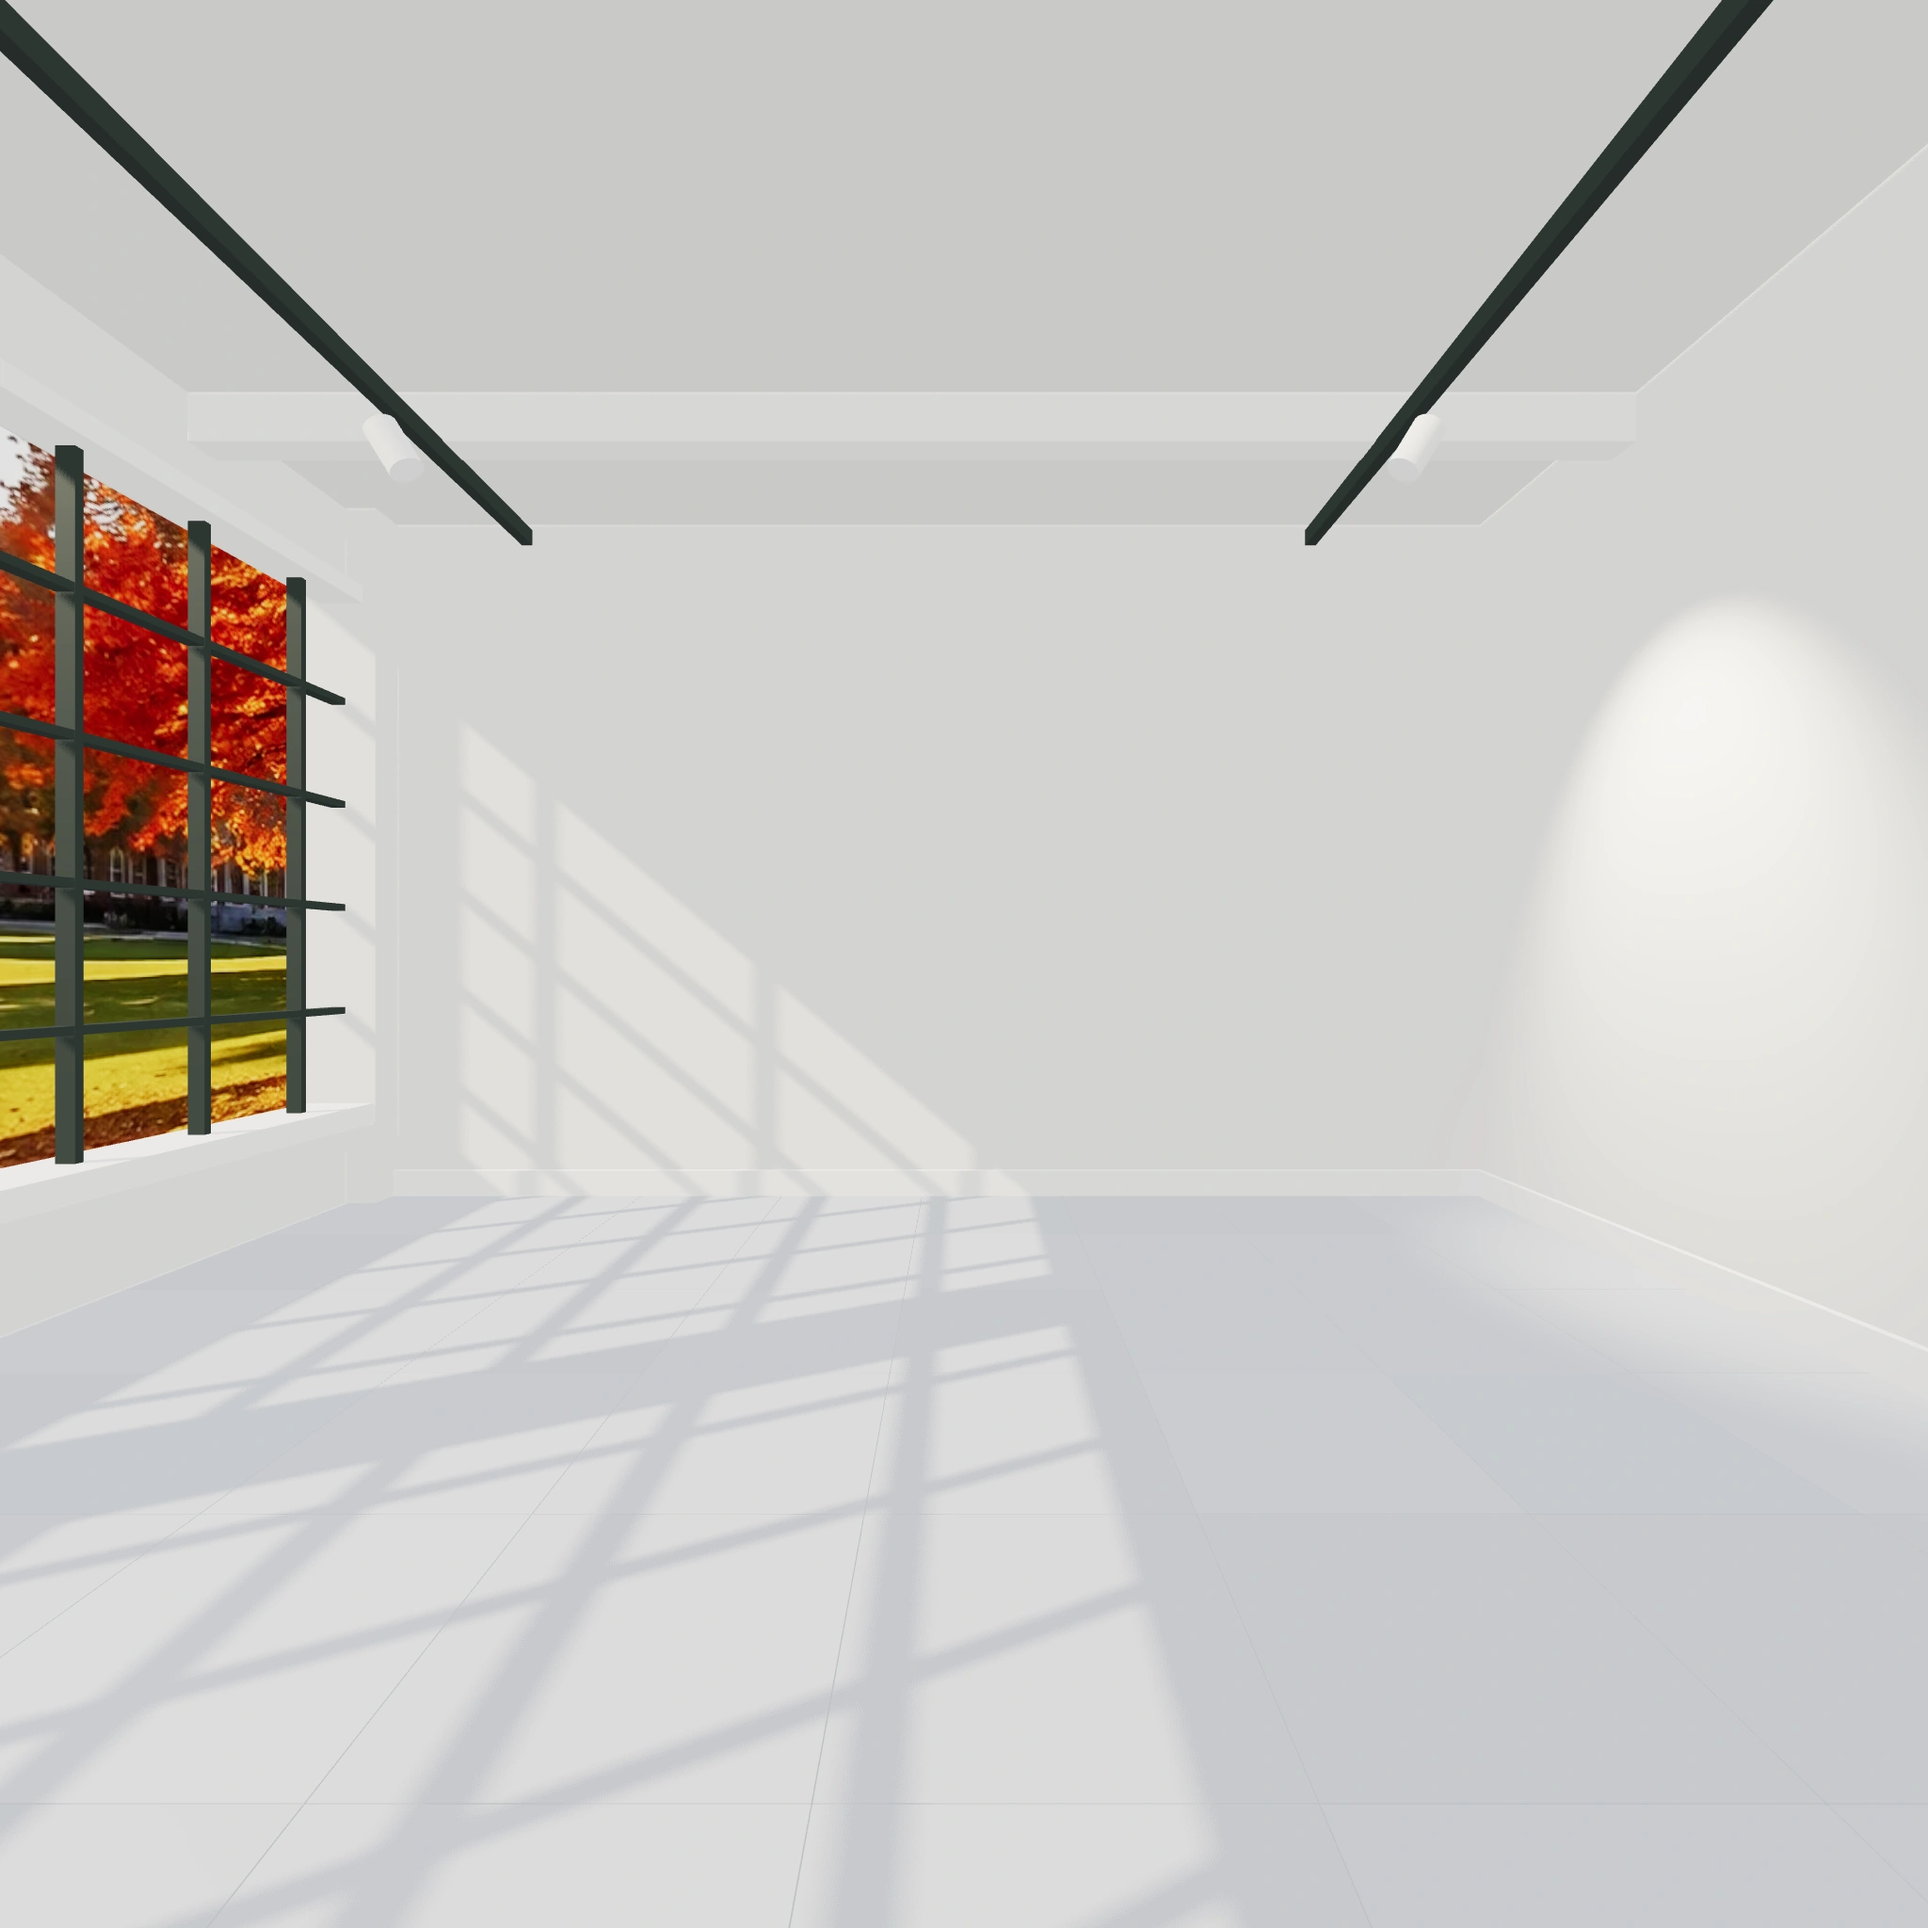
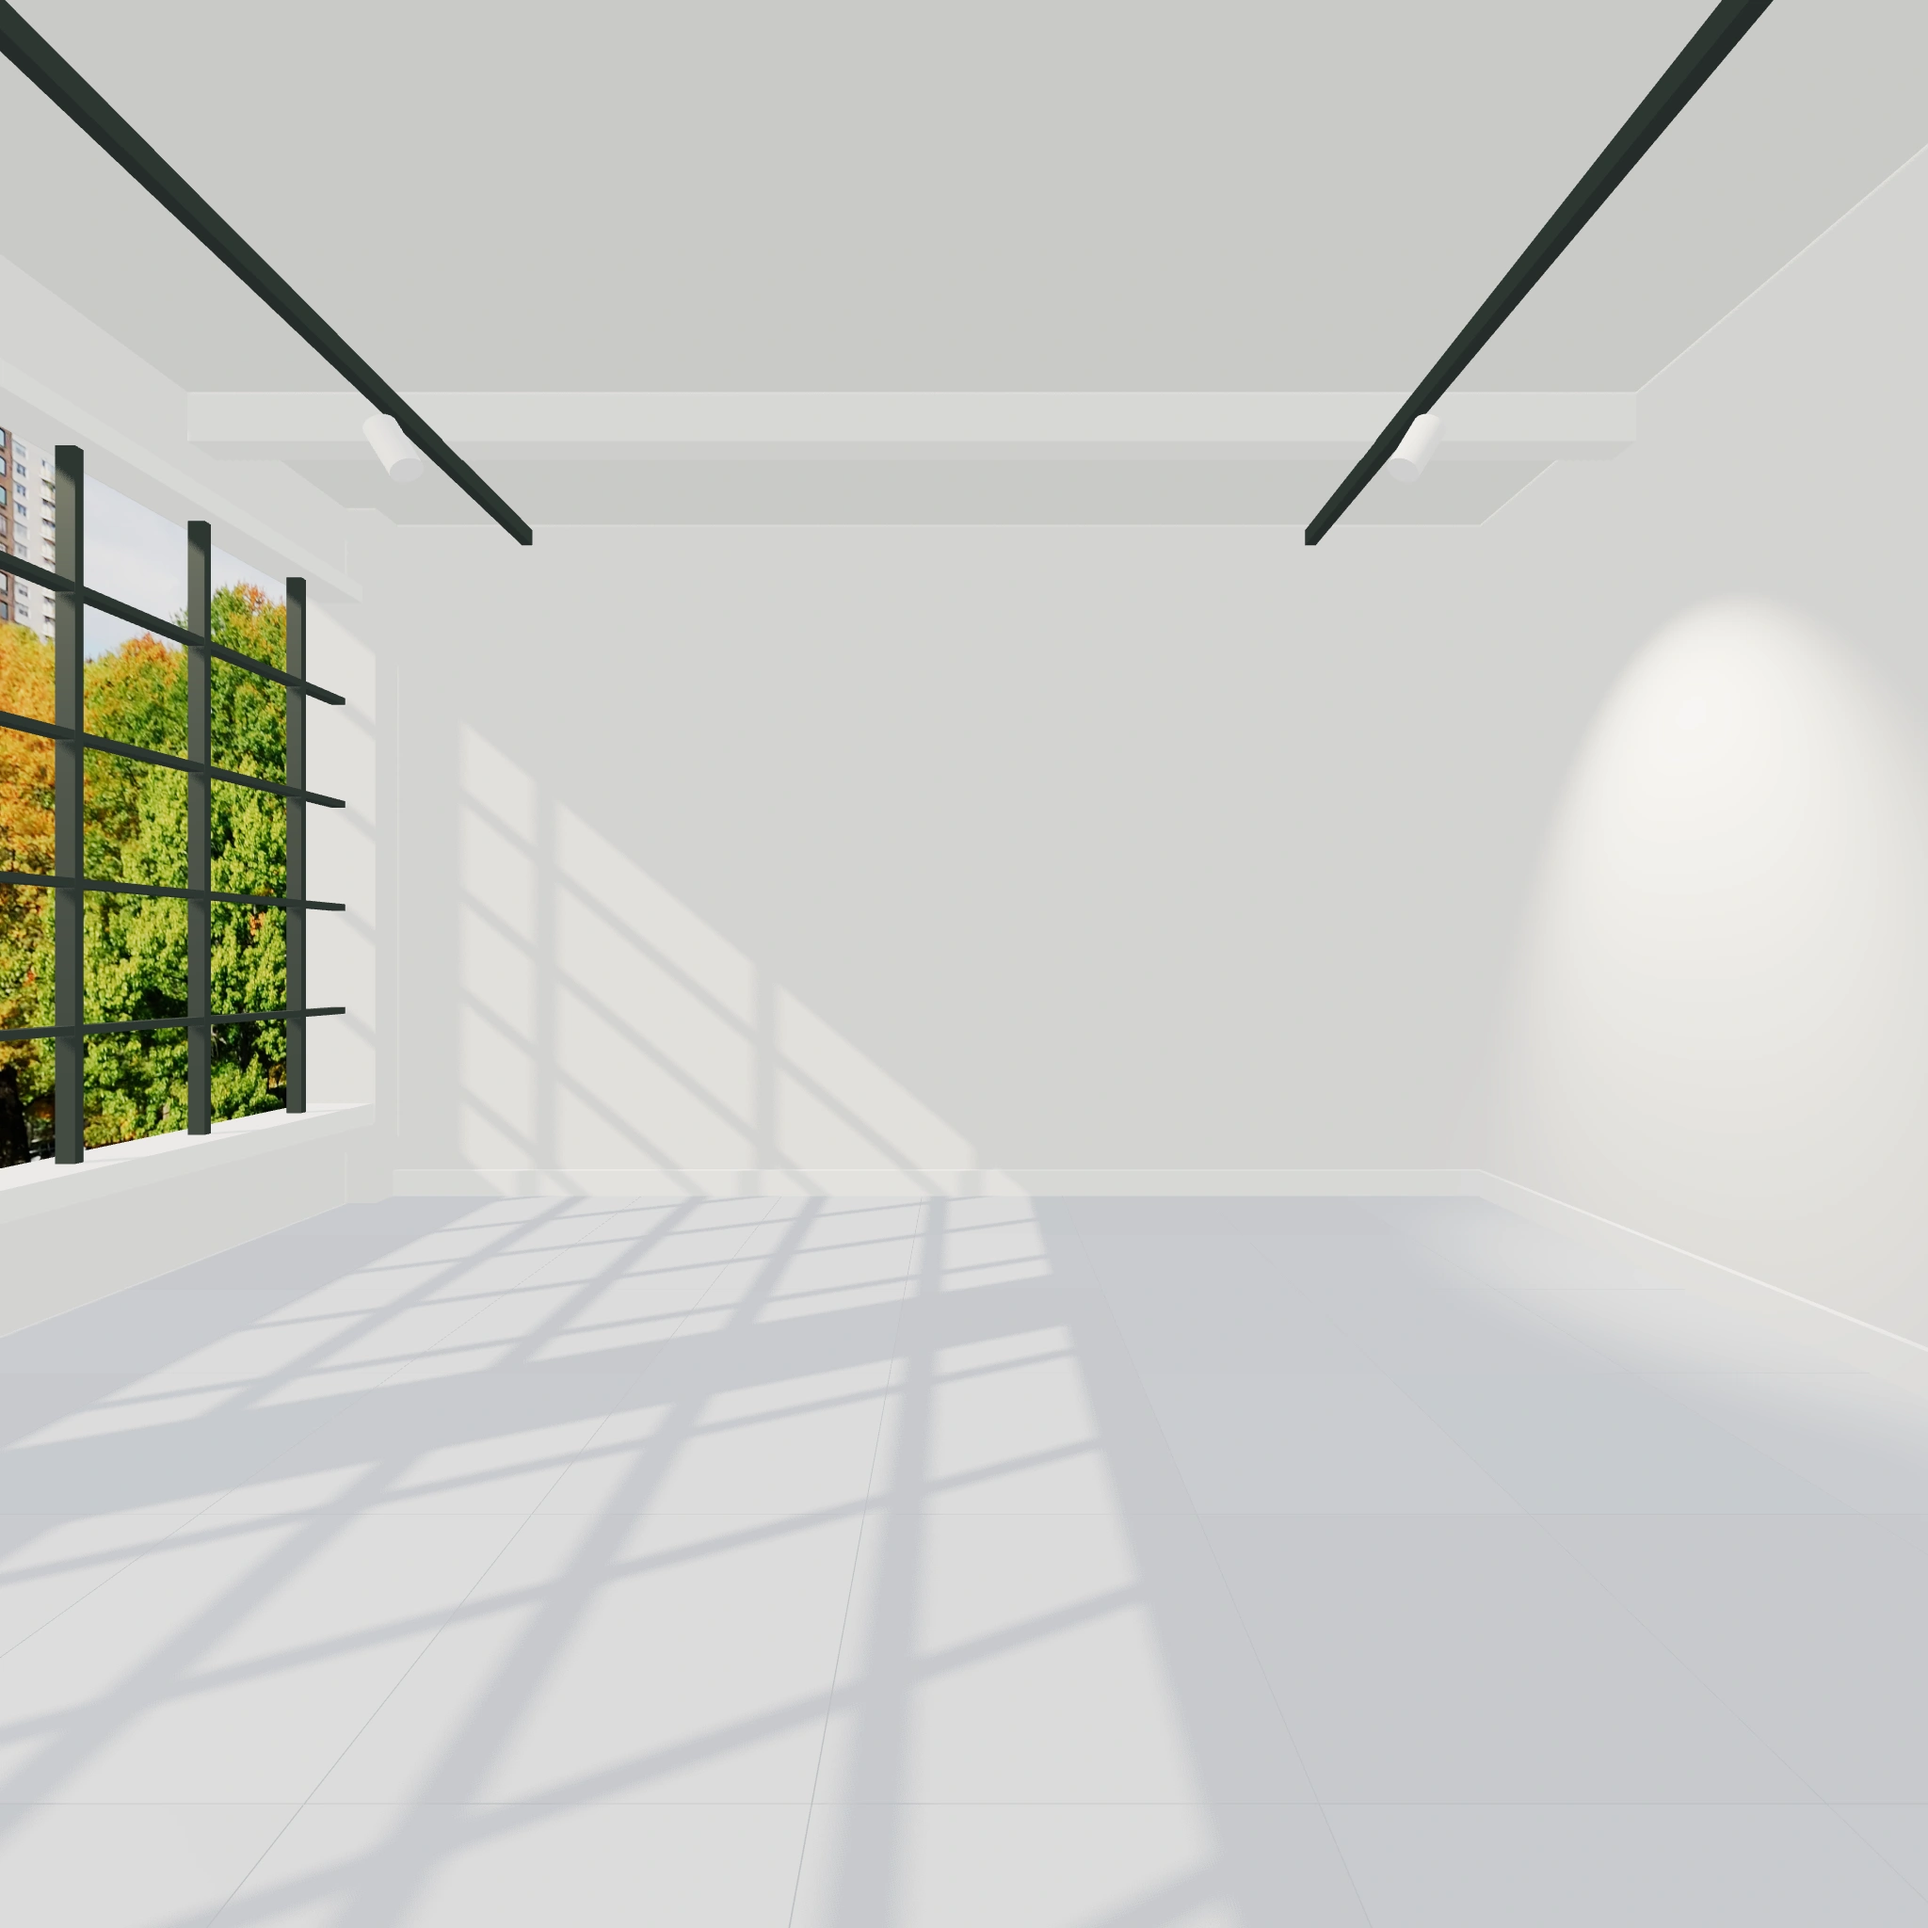
Rebake gallery panoramas with updated exterior view

Changed region(s): [[0.0, 0.2188, 0.1562, 0.625]]

diff --git a/tests/gallery.spec.js b/tests/gallery.spec.js
@@ -4,7 +4,7 @@ import {stations,artworks} from '../src/data.js';
 function screen(position,station,yaw,pitch,width=1440,height=900){const c=new T.PerspectiveCamera(72,width/height,.05,100);c.position.fromArray(stations[station].position);c.rotation.order='YXZ';c.rotation.set(pitch,yaw,0);c.updateMatrixWorld();const p=new T.Vector3(...position).project(c);return{x:(p.x+1)*width/2,y:(1-p.y)*height/2};}
 test('outside entry, clear interior, event one and floor-only navigation',async({page})=>{
  const errors=[];page.on('pageerror',e=>errors.push(e.message));await page.goto('./');
- await expect(page.locator('.brand-logo')).toBeVisible();await expect(page.locator('.entry')).toHaveCSS('background-image',/entrance-exterior.webp/);
+ await expect(page.locator('.brand-logo')).toHaveCount(0);await expect(page.getByRole('heading',{name:/NEOIZE 2026/})).toBeVisible();await expect(page.locator('.entry')).toHaveCSS('background-image',/entrance-exterior.webp/);
  const enter=page.getByRole('button',{name:'전시관 입장하기'});await expect(enter).toBeEnabled({timeout:60000});await page.screenshot({path:'test-results/door-entry.png'});await enter.click();
  await expect(page.locator('.entry')).toHaveCount(0);await expect(page.locator('.brand')).toHaveCount(0);await expect(page.locator('.location')).toHaveCount(0);await expect(page.locator('.station-nav')).toHaveCount(0);
  await page.waitForTimeout(700);await page.screenshot({path:'test-results/intro-wall.png'});
@@ -14,3 +14,4 @@ test('outside entry, clear interior, event one and floor-only navigation',async(
  await page.getByRole('button',{name:'첫 지점으로',exact:true}).click();await expect(page.locator('.room')).toHaveAttribute('data-station','0');expect(errors).toEqual([]);
 });
 test('mobile has no branding or numbered navigation after entry',async({page})=>{await page.setViewportSize({width:390,height:844});await page.goto('./');await page.getByRole('button',{name:'전시관 입장하기'}).click();await expect(page.locator('.entry')).toHaveCount(0);await expect(page.locator('.brand')).toHaveCount(0);await expect(page.locator('.station-nav')).toHaveCount(0);await page.getByRole('button',{name:'행사 목록',exact:true}).click();await page.getByRole('button',{name:'주요 행사 01',exact:true}).click();await expect(page.getByRole('heading',{name:'주요 행사 01'})).toBeVisible();await page.keyboard.press('Escape');await page.waitForTimeout(400);await page.screenshot({path:'test-results/mobile.png'});});
+
